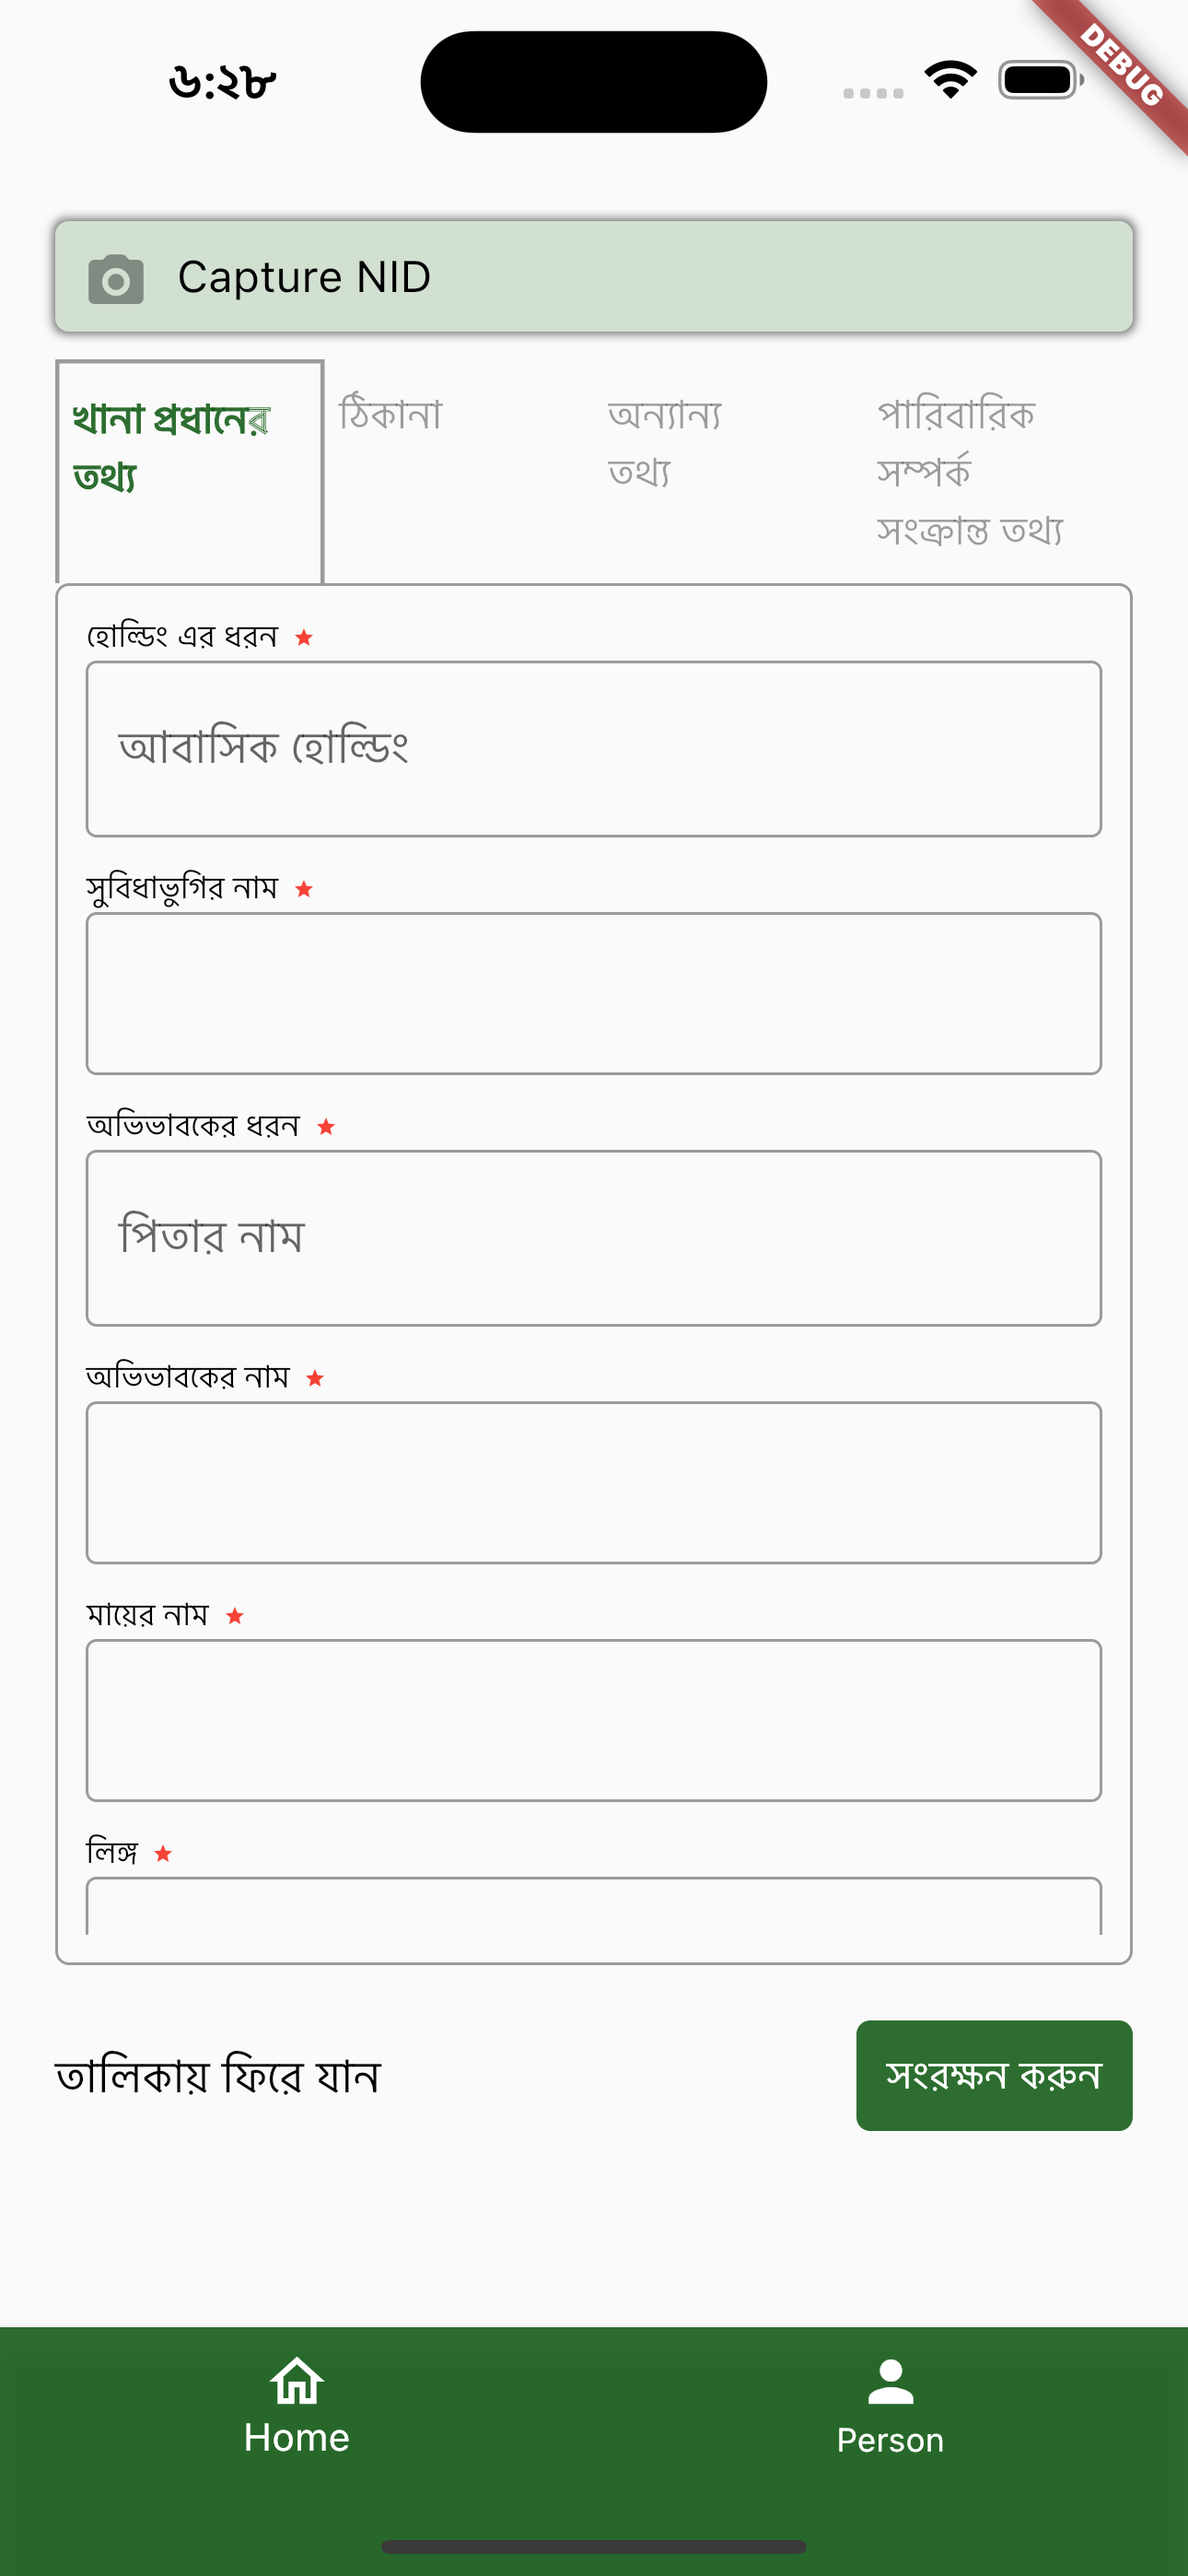
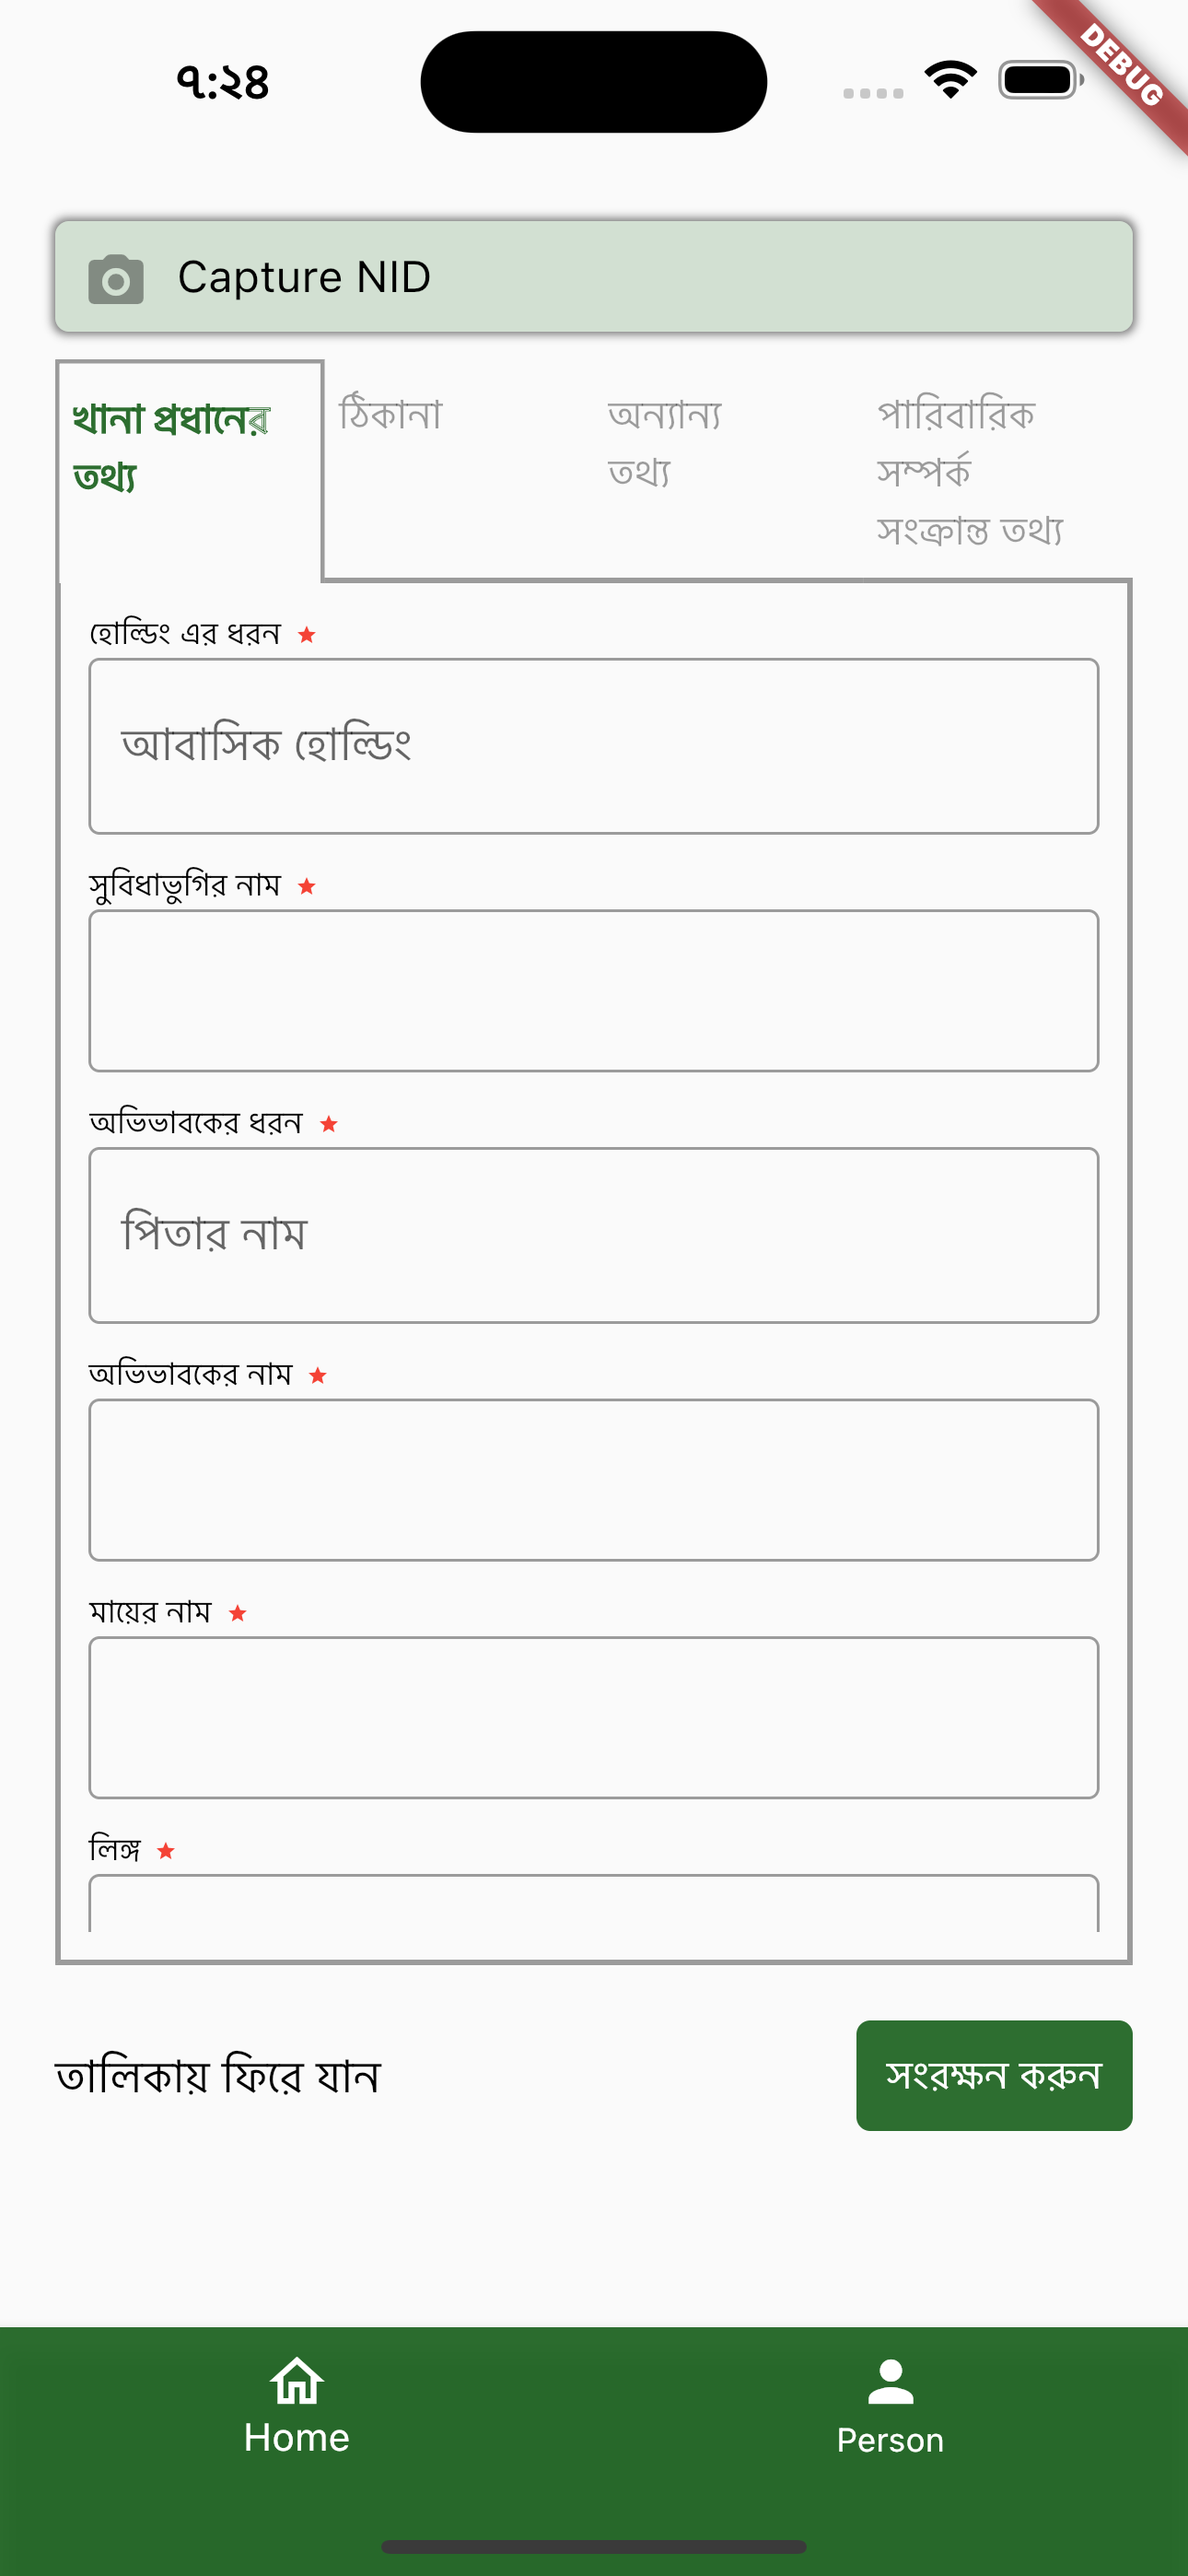
update totho screen ui and readme file

Changed region(s): [[0.062, 0.2178, 0.3411, 0.7468], [0.2791, 0.2178, 0.9612, 0.7468]]

diff --git a/lib/screens/totho_screen.dart b/lib/screens/totho_screen.dart
@@ -109,7 +109,12 @@ class _TothoScreenState extends State<TothoScreen> {
                                     width: 1.5,
                                   ),
                                 )
-                              : const Border(),
+                              : const Border(
+                                  bottom: BorderSide(
+                                    color: Colors.black38,
+                                    width: 2,
+                                  ),
+                                ),
                         ),
                         child: Text(
                           "খানা প্রধানের\n"
@@ -151,7 +156,12 @@ class _TothoScreenState extends State<TothoScreen> {
                                     width: 1.5,
                                   ),
                                 )
-                              : const Border(),
+                              : const Border(
+                                  bottom: BorderSide(
+                                    color: Colors.black38,
+                                    width: 2,
+                                  ),
+                                ),
                         ),
                         child: Text(
                           "ঠিকানা\n\n\n",
@@ -192,7 +202,12 @@ class _TothoScreenState extends State<TothoScreen> {
                                     width: 1.5,
                                   ),
                                 )
-                              : const Border(),
+                              : const Border(
+                                  bottom: BorderSide(
+                                    color: Colors.black38,
+                                    width: 2,
+                                  ),
+                                ),
                         ),
                         child: Text(
                           "অন্যান্য\n"
@@ -234,7 +249,12 @@ class _TothoScreenState extends State<TothoScreen> {
                                     width: 1.5,
                                   ),
                                 )
-                              : Border(),
+                              : const Border(
+                                  bottom: BorderSide(
+                                    color: Colors.black38,
+                                    width: 2,
+                                  ),
+                                ),
                         ),
                         child: Text(
                           "পারিবারিক সম্পর্ক\n"
@@ -258,11 +278,24 @@ class _TothoScreenState extends State<TothoScreen> {
                 ? Column(
                     children: [
                       Container(
-                        margin: EdgeInsets.all(0),
-                        padding: EdgeInsets.all(10),
-                        decoration: BoxDecoration(
-                            border: Border.all(width: 1, color: Colors.black38),
-                            borderRadius: BorderRadius.circular(5)),
+                        margin: const EdgeInsets.all(0),
+                        padding: const EdgeInsets.all(10),
+                        decoration: const BoxDecoration(
+                          border: Border(
+                            bottom: BorderSide(
+                              color: Colors.black38,
+                              width: 2,
+                            ),
+                            right: BorderSide(
+                              color: Colors.black38,
+                              width: 2,
+                            ),
+                            left: BorderSide(
+                              color: Colors.black38,
+                              width: 2,
+                            ),
+                          ),
+                        ),
                         width: double.maxFinite,
                         height: 500,
                         child: ListView(
@@ -663,8 +696,21 @@ class _TothoScreenState extends State<TothoScreen> {
                         margin: EdgeInsets.all(0),
                         padding: EdgeInsets.all(10),
                         decoration: BoxDecoration(
-                            border: Border.all(width: 1, color: Colors.black38),
-                            borderRadius: BorderRadius.circular(5)),
+                          border: Border(
+                            bottom: BorderSide(
+                              color: Colors.black38,
+                              width: 2,
+                            ),
+                            right: BorderSide(
+                              color: Colors.black38,
+                              width: 2,
+                            ),
+                            left: BorderSide(
+                              color: Colors.black38,
+                              width: 2,
+                            ),
+                          ),
+                        ),
                         width: double.maxFinite,
                         height: 500,
                         child: ListView(
@@ -865,8 +911,21 @@ class _TothoScreenState extends State<TothoScreen> {
                         margin: EdgeInsets.all(0),
                         padding: EdgeInsets.all(10),
                         decoration: BoxDecoration(
-                            border: Border.all(width: 1, color: Colors.black38),
-                            borderRadius: BorderRadius.circular(5)),
+                          border: Border(
+                            bottom: BorderSide(
+                              color: Colors.black38,
+                              width: 2,
+                            ),
+                            right: BorderSide(
+                              color: Colors.black38,
+                              width: 2,
+                            ),
+                            left: BorderSide(
+                              color: Colors.black38,
+                              width: 2,
+                            ),
+                          ),
+                        ),
                         width: double.maxFinite,
                         height: 500,
                         child: ListView(
@@ -1068,8 +1127,21 @@ class _TothoScreenState extends State<TothoScreen> {
                         margin: EdgeInsets.all(0),
                         padding: EdgeInsets.all(15),
                         decoration: BoxDecoration(
-                            border: Border.all(width: 1, color: Colors.black38),
-                            borderRadius: BorderRadius.circular(5)),
+                          border: Border(
+                            bottom: BorderSide(
+                              color: Colors.black38,
+                              width: 2,
+                            ),
+                            right: BorderSide(
+                              color: Colors.black38,
+                              width: 2,
+                            ),
+                            left: BorderSide(
+                              color: Colors.black38,
+                              width: 2,
+                            ),
+                          ),
+                        ),
                         width: double.maxFinite,
                         height: 360,
                         child: Column(
